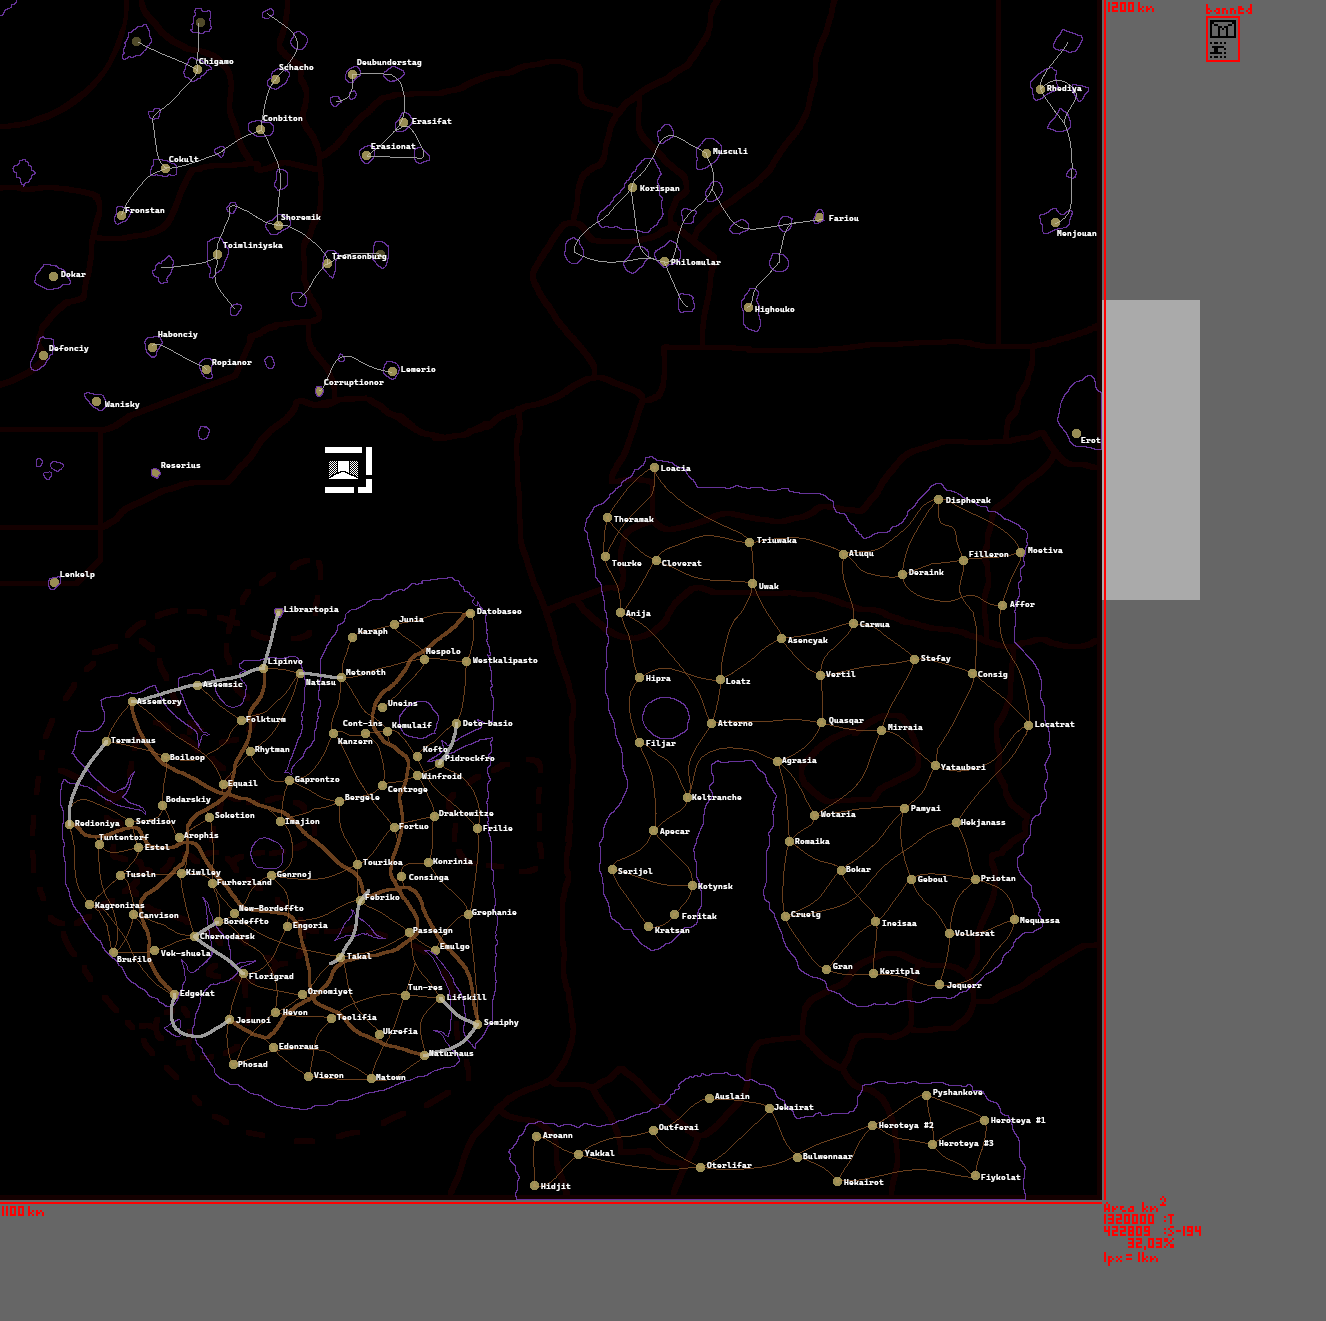
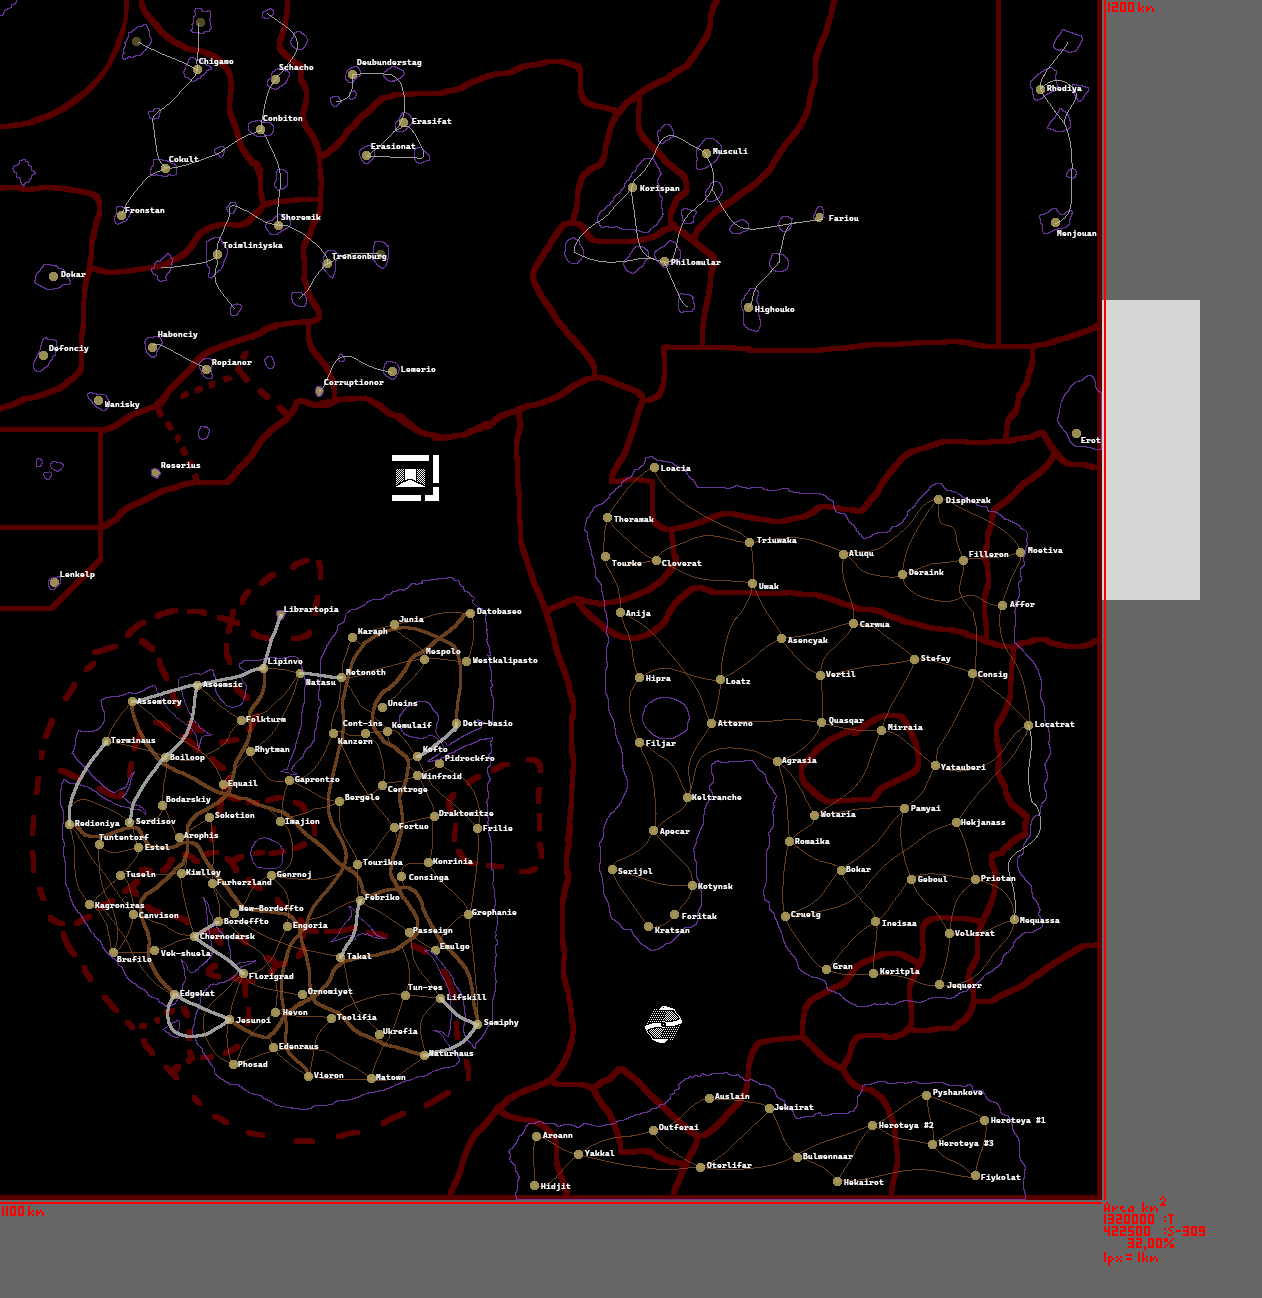
updated maps and commission page and made whole page for branch universe

diff --git a/pages/commission.html b/pages/commission.html
@@ -45,7 +45,7 @@
         <div>
             <div>Conditions to call out me:</div>
             <ul>
-                <li>Using direct messages to my <button style="background-color: blue; color:white;" onclick="copyToClipboardDiscordNick()">discord account (click)</button></li>
+                <li>Using direct messages to my <a style="background-color: lightblue; color:black; border-radius: 5px; padding:4px" href="https://twitter.com/Kiwii_Delumorin">twitter account</a></li>
                 <li>Using google forms for shy people(soon)</li>
             </ul>
         </div>
@@ -146,7 +146,7 @@
             Right now you can pay using:
             <ul>
                 <li>PayPal(soon)</li>
-                <li>Amazon gift cards, depending on your region</li>
+                <li>Amazon gift cards, depending on your region(soon)</li>
                 <li>Steam gift card, depending on your region</li>
                 <li>Steam games as a present</li>
             </ul>
@@ -172,13 +172,6 @@
         </div>
         <div>After that, for a day, or for a week(more than a week after payment you can ask about another drawing as free), you're getting a drawing from me. Lastly, don't forget to mention me in case of publishing my work.</div>
     </div>
-
-    <script>
-        function copyToClipboardDiscordNick() {
-            navigator.clipboard.writeText(`@kiwiidevulopir`);
-            alert("copied to clipboard");
-        }
-    </script>
     <script type="module" src="../js/commission.js"></script>
 </body>
 
